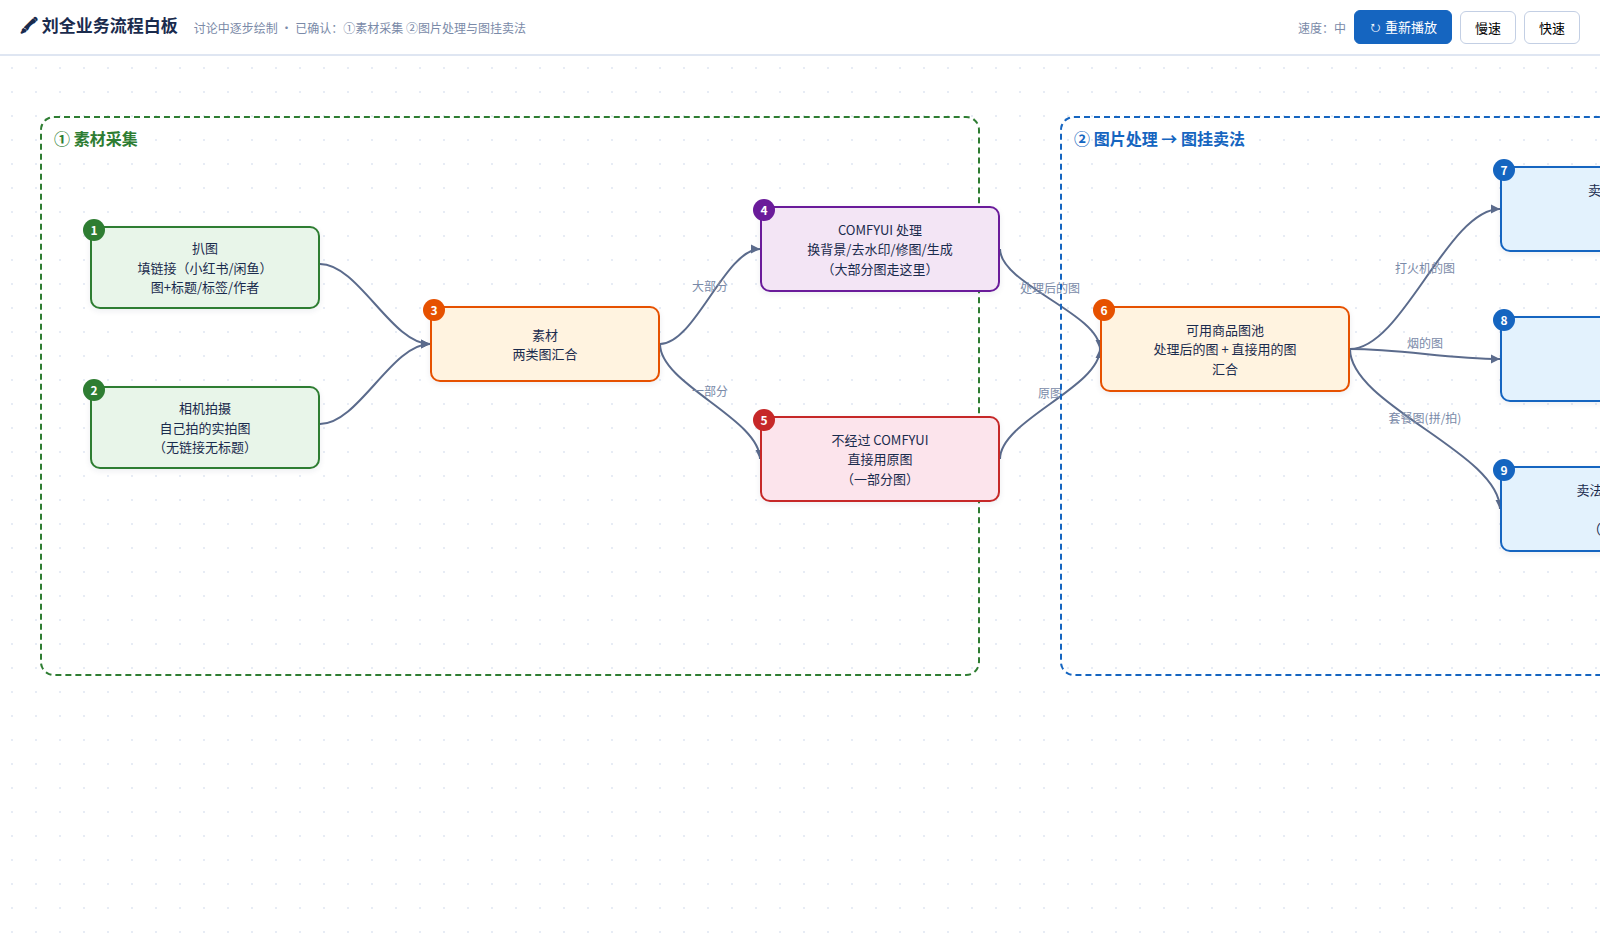
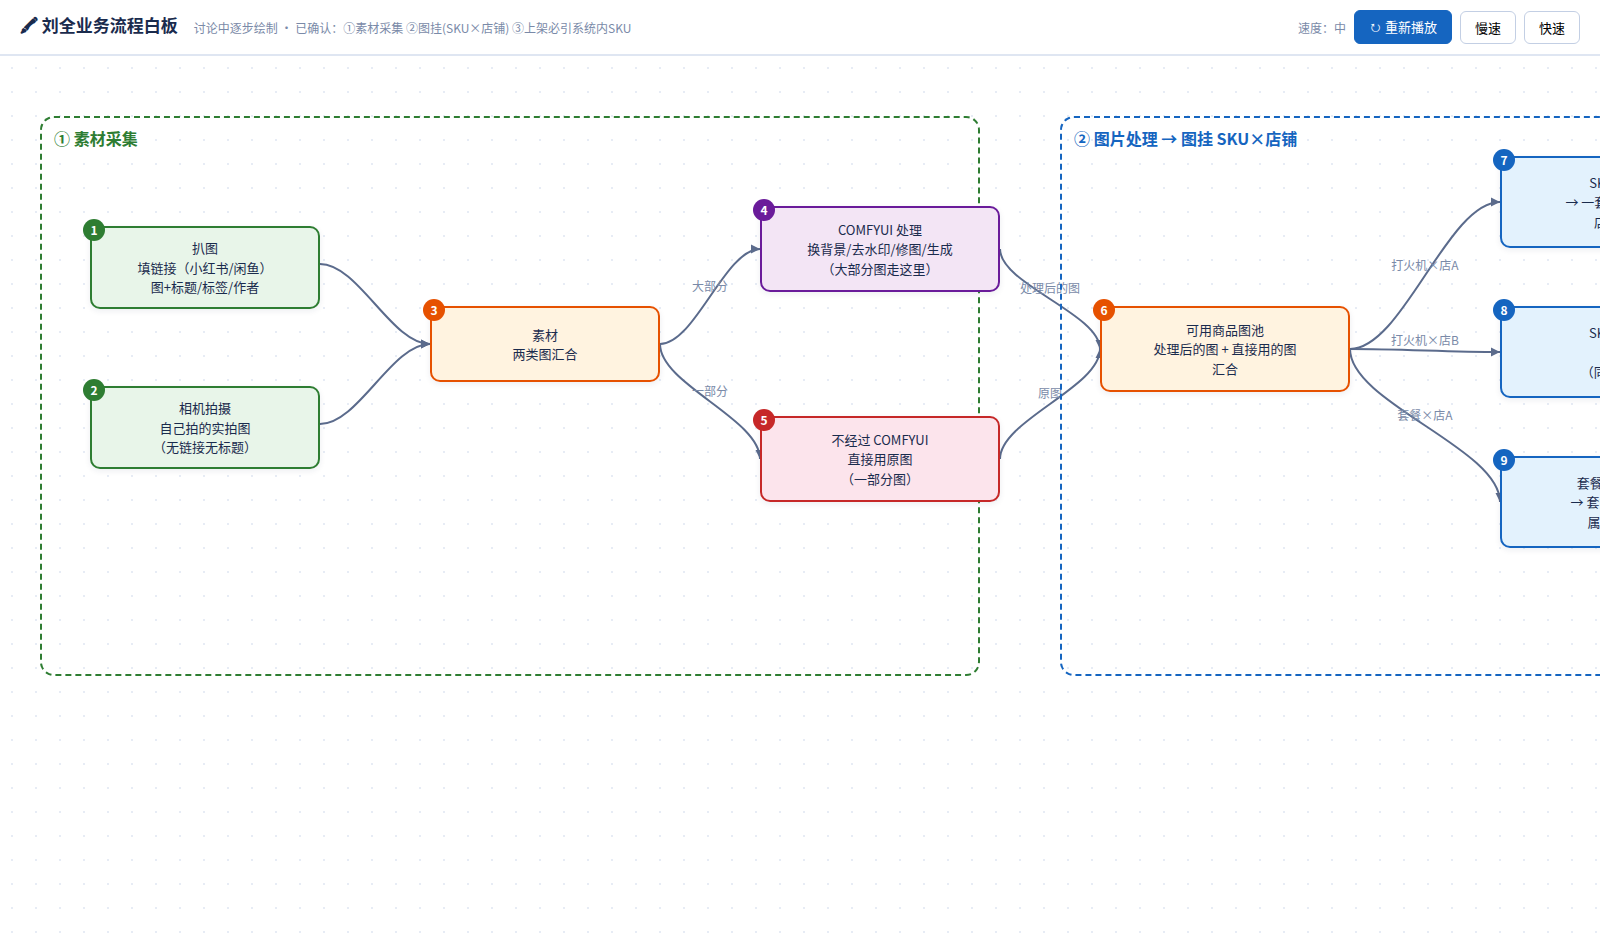
docs(数据底层): 图片归属修正——一套图=1个SKU×1个店铺(跨店各用各的图) + 店铺=通用实体 + 上架必引系统内SKU
- §3 图片归属重写: 1 SKU + 1 店铺 = 1 套图; 图集归属键=(SKU,店铺); 跨N店=N套图
- §3.2 店铺=通用实体(平台字段区分, Etsy/闲鱼/未来平台无区别, 结构天然支持拓展)
- §3.5 新增: 系统里没有的 SKU 禁止上架(与v3铁律③ Etsy变体SKU框填本地SKU一致)
- §1 三层模型扩为五层: 实物/物料/店铺/图集/卖法
- 白板 v3 同步: 图挂(SKU×店铺) + 店铺维度示例

diff --git a/docs/diagrams/白板-业务全流程.html b/docs/diagrams/白板-业务全流程.html
@@ -49,7 +49,7 @@
 <body>
 <header>
   <h1>🖍 刘全业务流程白板</h1>
-  <span class="sub">讨论中逐步绘制 · 已确认：①素材采集 ②图片处理与图挂卖法</span>
+  <span class="sub">讨论中逐步绘制 · 已确认：①素材采集 ②图挂(SKU×店铺) ③上架必引系统内SKU</span>
   <div id="toolbar">
     <span id="speed">速度：中</span>
     <button id="btnPlay" class="primary">▶ 从头播放绘制过程</button>
@@ -65,7 +65,7 @@
 // ============ 白板数据（每确认一个点，往这里加）============
 const PHASES = [
   { id:"p1", title:"① 素材采集", x:40, y:60, w:940, h:560, color:"#2e7d32" },
-  { id:"p2", title:"② 图片处理 → 图挂卖法", x:1060, y:60, w:1480, h:560, color:"#1565c0" },
+  { id:"p2", title:"② 图片处理 → 图挂 SKU×店铺", x:1060, y:60, w:1480, h:560, color:"#1565c0" },
 ];
 
 const NODES = [
@@ -80,17 +80,17 @@ const NODES = [
     label:"COMFYUI 处理<br/>换背景/去水印/修图/生成<br/>（大部分图走这里）" },
   { id:"n-direct", type:"plain",x:760, y:360, w:240, h:86,  badge:"5",
     label:"不经过 COMFYUI<br/>直接用原图<br/>（一部分图）" },
-  // ---- ② 图片处理 → 可用商品图 → 图挂卖法（新增）----
+  // ---- ② 图片处理 → 可用商品图 → 图挂 SKU×店铺（新增）----
   { id:"n-usable", type:"pool", x:1100, y:250, w:250, h:86,  badge:"6",
     label:"可用商品图池<br/>处理后的图 + 直接用的图<br/>汇合" },
-  { id:"n-saleA",  type:"sale", x:1500, y:110, w:280, h:86,  badge:"7",
-    label:"卖法：单卖打火机<br/>挂打火机的图<br/>（多角度）" },
-  { id:"n-saleB",  type:"sale", x:1500, y:260, w:280, h:86,  badge:"8",
-    label:"卖法：单卖烟<br/>挂烟的图<br/>（多角度）" },
-  { id:"n-saleAB", type:"sale", x:1500, y:410, w:280, h:86,  badge:"9",
-    label:"卖法：套餐 打火机+烟<br/>挂套餐图<br/>（拼图或专门拍）" },
-  { id:"n-rule",   type:"rule", x:1960, y:250, w:520, h:110, badge:"★",
-    label:"关键规则：一图一卖法<br/>一张图只属于一个卖法（多角度除外）<br/>多主体图要分别售卖 → 先拆/补图<br/>套餐图只属于套餐卖法，不属于单品" },
+  { id:"n-saleA",  type:"sale", x:1500, y:100, w:300, h:92,  badge:"7",
+    label:"SKU-打火机 × 店铺A<br/>→ 一套图（主图/轮播/详情）<br/>店铺A的打火机图集" },
+  { id:"n-saleB",  type:"sale", x:1500, y:250, w:300, h:92,  badge:"8",
+    label:"SKU-打火机 × 店铺B<br/>→ 另一套图<br/>（同商品，店铺B风格）" },
+  { id:"n-saleAB", type:"sale", x:1500, y:400, w:300, h:92,  badge:"9",
+    label:"套餐(打火机+烟) × 店铺A<br/>→ 套餐图（拼图或专门拍）<br/>属于套餐卖法×店铺A" },
+  { id:"n-rule",   type:"rule", x:1930, y:250, w:560, h:110, badge:"★",
+    label:"关键规则：一套图 = 1 SKU × 1 店铺<br/>同一商品跨店各用各的图（风格/定位差异）<br/>店铺=通用实体（Etsy/闲鱼/未来平台无区别）<br/>系统里没有的 SKU 禁止上架" },
 ];
 
 const EDGES = [
@@ -99,12 +99,12 @@ const EDGES = [
   { id:"e2", from:"n-camera", to:"n-pool",  label:"" },
   { id:"e3", from:"n-pool",   to:"n-comfy", label:"大部分" },
   { id:"e4", from:"n-pool",   to:"n-direct",label:"一部分" },
-  // ---- ② 图片处理 → 图挂卖法 ----
+  // ---- ② 图片处理 → 图挂 SKU×店铺 ----
   { id:"e5", from:"n-comfy",  to:"n-usable", label:"处理后的图" },
   { id:"e6", from:"n-direct", to:"n-usable", label:"原图" },
-  { id:"e7", from:"n-usable", to:"n-saleA",  label:"打火机的图" },
-  { id:"e8", from:"n-usable", to:"n-saleB",  label:"烟的图" },
-  { id:"e9", from:"n-usable", to:"n-saleAB", label:"套餐图(拼/拍)" },
+  { id:"e7", from:"n-usable", to:"n-saleA",  label:"打火机×店A" },
+  { id:"e8", from:"n-usable", to:"n-saleB",  label:"打火机×店B" },
+  { id:"e9", from:"n-usable", to:"n-saleAB", label:"套餐×店A" },
 ];
 
 // ============ 渲染引擎 ============

diff --git a/docs/数据底层逻辑-实物物料卖法三层模型.md b/docs/数据底层逻辑-实物物料卖法三层模型.md
@@ -8,27 +8,31 @@
 
 ## 0. 一句话
 
-**实物（仓库里的货）≠ 物料（SKU 档案）≠ 卖法（可售单元/Listing）**，三者分层、各管各的；
-**图挂在卖法上，不挂在实物上**；**库存记在实物/物料上**；**组合卖法 = 配方表（BOM），不占独立库存**。
+**实物（仓库里的货）≠ 物料（SKU 档案）≠ 店铺（通用实体：Etsy 店/闲鱼店/未来平台）≠ 卖法（可售单元/Listing）**，分层各管各的；
+**一套图 = 1 个 SKU × 1 个店铺**（图不挂在 SKU 上，挂在"SKU × 店铺"上）；**库存记在实物/物料上，不分店**；**组合卖法 = 配方表（BOM），不占独立库存**；**系统里没有的 SKU 禁止上架**。
 
 ---
 
-## 1. 三层模型（核心）
+## 1. 分层模型（核心）
 
 ```
 ┌─────────────────────────────────────────────────────────────┐
-│ ③ 卖法层（可售单元 / Listing）        ← SEO 优化、上架、图都在这一层 │
-│    单卖打火机 / 单卖烟 / 套餐(打火机+烟) / 套餐(打火机+烟+火柴)…    │
-│    · 每个卖法有：自己的图、自己的 SEO（标题/描述/标签）、独立上架    │
-│    · 组合卖法 = 配方表（BOM）：引用下面物料，各 ×N                  │
+│ ⑤ 卖法层（可售单元 / Listing）      ← SEO、上架在 店铺×卖法 维度 │
+│    单卖打火机 / 单卖烟 / 套餐(打火机+烟) / 套餐(+火柴)…          │
+│    · 组合卖法 = 配方表（BOM）：引用下面物料，各 ×N               │
 ├─────────────────────────────────────────────────────────────┤
-│ ② 物料层（SKU 档案）                ← 单品图、货品主档在这一层     │
-│    打火机 SKU / 烟 SKU / …                                        │
-│    · 一个商品 = 一个 SKU（档案：名称/规格/单品图/成本）            │
+│ ④ 图集层                         ← 一套图 = (SKU × 店铺)       │
+│    SKU-打火机×店铺A → A的打火机图集 ｜ SKU-打火机×店铺B → B的图集 │
+│    · 主图/轮播/详情/多角度都属于同一套图                        │
 ├─────────────────────────────────────────────────────────────┤
-│ ① 实物层（仓库库存）                 ← 库存数量在这一层            │
-│    打火机 ×100 / 烟 ×100 / …                                      │
-│    · 库存只记这一层，永远和实物对得上                              │
+│ ③ 店铺层（通用实体）              ← 不分平台，结构相同            │
+│    店铺A(Etsy) / 店铺B(Etsy) / 闲鱼店 / 小红书店 / 未来平台店    │
+├─────────────────────────────────────────────────────────────┤
+│ ② 物料层（SKU 档案，全局唯一）     ← 名称/规格/成本不分店          │
+│    打火机 SKU / 烟 SKU / …                                     │
+├─────────────────────────────────────────────────────────────┤
+│ ① 实物层（仓库库存）              ← 库存数量只记这一层，不分店     │
+│    打火机 ×100 / 烟 ×100 / …                                   │
 └─────────────────────────────────────────────────────────────┘
 ```
 
@@ -36,9 +40,11 @@
 
 | 层 | 管什么 | 不管什么 |
 |---|---|---|
-| ① 实物层 | 库存数量、实物 | 图、SEO、卖法 |
-| ② 物料层 | SKU 档案、单品图、规格、成本 | 库存、组合、上架 |
-| ③ 卖法层 | 每个卖法的图、SEO、上架内容 | 库存、实物 |
+| ① 实物层 | 库存数量、实物 | 图、SEO、卖法、店铺 |
+| ② 物料层 | SKU 档案（名称/规格/成本，全局一份） | 库存、组合、上架、店铺差异 |
+| ③ 店铺层 | 店铺实体（平台字段 + 店铺维度组织） | 库存、物料内容 |
+| ④ 图集层 | 每套图（= SKU × 店铺） | 库存、SEO |
+| ⑤ 卖法层 | 卖法的 SEO、上架内容（店铺 × 卖法维度） | 库存、实物 |
 
 ---
 
@@ -56,33 +62,53 @@
 
 ## 3. 图片归属规则（用户 2026-09-03 拍板，极其重要）
 
-### 3.1 核心规则：一张图只对应一个卖法
+### 3.1 核心规则：1 个 SKU + 1 个店铺 = 1 套图
 
-- ✅ **一张图 = 一个卖法**（不算同物品的多角度：正面/侧面/细节多张图都属于同一个卖法，OK）
-- ❌ **一张图不得同时属于两个卖法**
+- ✅ **一套图 = 一个（SKU × 店铺）**：同一个商品（SKU）在不同店铺出售，**各用各的图**——因为不同店铺可能有不同风格/定位/定价，图要差异化
+- ✅ **一个 SKU 跨 N 个店铺 = N 套图**（图集的归属键是 (SKU, 店铺)，不是 SKU 本身）
+- ✅ 同一套图内可以有**多张图**（主图/轮播/详情/多角度），都属于同一 (SKU, 店铺)
+- ❌ **一套图不得同时属于两个店铺**
 
-### 3.2 多主体图的处理
+### 3.2 店铺是通用实体（用户 2026-09-03 拍板）
+
+- **店铺 = 任何平台的店铺，本质上没有区别**：Etsy A 店 / Etsy B 店 / 闲鱼店 / 小红书店 / 未来新平台店——都是同一个"店铺"实体，只是平台字段不同
+- **将来平台必然拓展**，数据结构必须天然支持（店铺表 + 平台字段，不针对某平台特化）
+- 上架、图集、SEO 全部按店铺维度组织
+
+### 3.3 一图一主体（多主体图处理）
 
 一张图里有多个主体（如打火机 + 烟），且两者要**分别售卖**时：
 
 - 这张图**不能共用**——必须先处理成"一图一主体"：
-  - **裁剪**：裁成打火机一张、烟一张，各自对应自己的卖法
+  - **裁剪**：裁成打火机一张、烟一张，各自对应自己的 SKU/卖法
   - **补拍/生成**：给打火机单独一张、烟单独一张
 - 处理动作归属：图片处理环节（COMFYUI）或建档时人工处理（待定，见 §7 开放项）
 
-### 3.3 组合卖法的图
+### 3.4 组合卖法的图
 
-- 卖套餐（打火机+烟），**必然有一张"打火机+烟"的套餐图**——它**只属于套餐这个卖法**，不属于打火机也不属于烟
+- 卖套餐（打火机+烟），**必然有一张"打火机+烟"的套餐图**——它属于"套餐卖法 × 店铺"（同 SKU 规则：每个店铺各一套套餐图）
 - 套餐图来源：
   1. **拼图**：把打火机图和烟图拼成一张（COMFYUI 可做）
   2. **专门拍/生成**：拍一张打火机+烟在一起的图（或 AI 生成）
 
-### 3.4 对应关系总结
+### 3.5 上架必须引用系统内已建档的 SKU（用户 2026-09-03 拍板）
+
+- **系统里没有的 SKU，禁止在 Etsy（及任何店铺）上架**
+- 上架 Listing 必须引用系统内已有 SKU 档案（含图、名称、规格、成本）
+- 与三工作台 v3 铁律③一致：「Etsy 变体 SKU 框填本地 SKU（订单自动对上的钥匙）」——订单回来时平台 SKU 直接对上系统内本地 SKU
+
+### 3.6 对应关系总结
 
 ```
-实物层：打火机 ×100、烟 ×100          ← 图不挂这里
-物料层：打火机 SKU、烟 SKU            ← 单品图挂这里（打火机的图、烟的图）
-卖法层：单卖打火机 / 单卖烟 / 套餐     ← 每个卖法自己的图挂这里（套餐图属于套餐）
+① 实物层：打火机 ×100、烟 ×100                ← 库存只记这里，不分店
+② 物料层：SKU-打火机、SKU-烟（全局档案一份）    ← 名称/规格/成本不分店
+③ 店铺层：店铺A / 店铺B / 闲鱼店 / …（通用实体）
+④ 图集层：一套图 = (SKU × 店铺)
+     SKU-打火机 × 店铺A → 店铺A的打火机图集
+     SKU-打火机 × 店铺B → 店铺B的打火机图集
+     SKU-烟 × 店铺A     → 店铺A的烟图集
+     套餐(打火机+烟) × 店铺A → 店铺A的套餐图集
+⑤ 卖法层：单卖打火机 / 单卖烟 / 套餐(打火机+烟)  ← SEO、上架在店铺×卖法维度组织
 ```
 
 ---
@@ -120,7 +146,7 @@
 
 - 刘全对 ERP：卖法（可售单元）图包/SEO 初稿/选品建议 → 选品卡；上架任务单
 - ERP 对刘全：只读 v_* 视图（订单/库存/成本/采购）
-- **SKU 建档 = 单独大规划**（用户拍板，本文件只定三层模型与图挂卖法的规则，建档流程细节另立规划）
+- **SKU 建档 = 单独大规划**（用户拍板，本文件只定分层模型与"图挂 SKU×店铺"的规则，建档流程细节另立规划）
 
 ---
 
@@ -140,5 +166,5 @@
 1. 素材两来源（扒图 + 相机拍摄）→ 两路处理（COMFYUI / 直接用）→ 汇合可用商品图 ✅
 2. 一张图可有多主体（打火机+烟），要分别售卖 → **一图一卖法规则**（多角度除外），多主体先拆/补 ✅
 3. 卖套餐的库存怎么存 → **分开存（打火机 1、烟 1）+ 套餐按 BOM 配方扣减**，套餐不占独立库存 ✅
-4. 商品图和实物怎么对应 → **图挂卖法不挂实物**，套餐图属于套餐卖法 ✅
+4. 商品图和实物怎么对应 → **一套图 = 1 个 SKU × 1 个店铺**（图不挂实物、不单挂 SKU；跨店各用各的图）；套餐图属于"套餐卖法 × 店铺" ✅
 5. 本规则为整个刘全数据底层逻辑，后续 SEO/ERP 必须基于此 ✅
